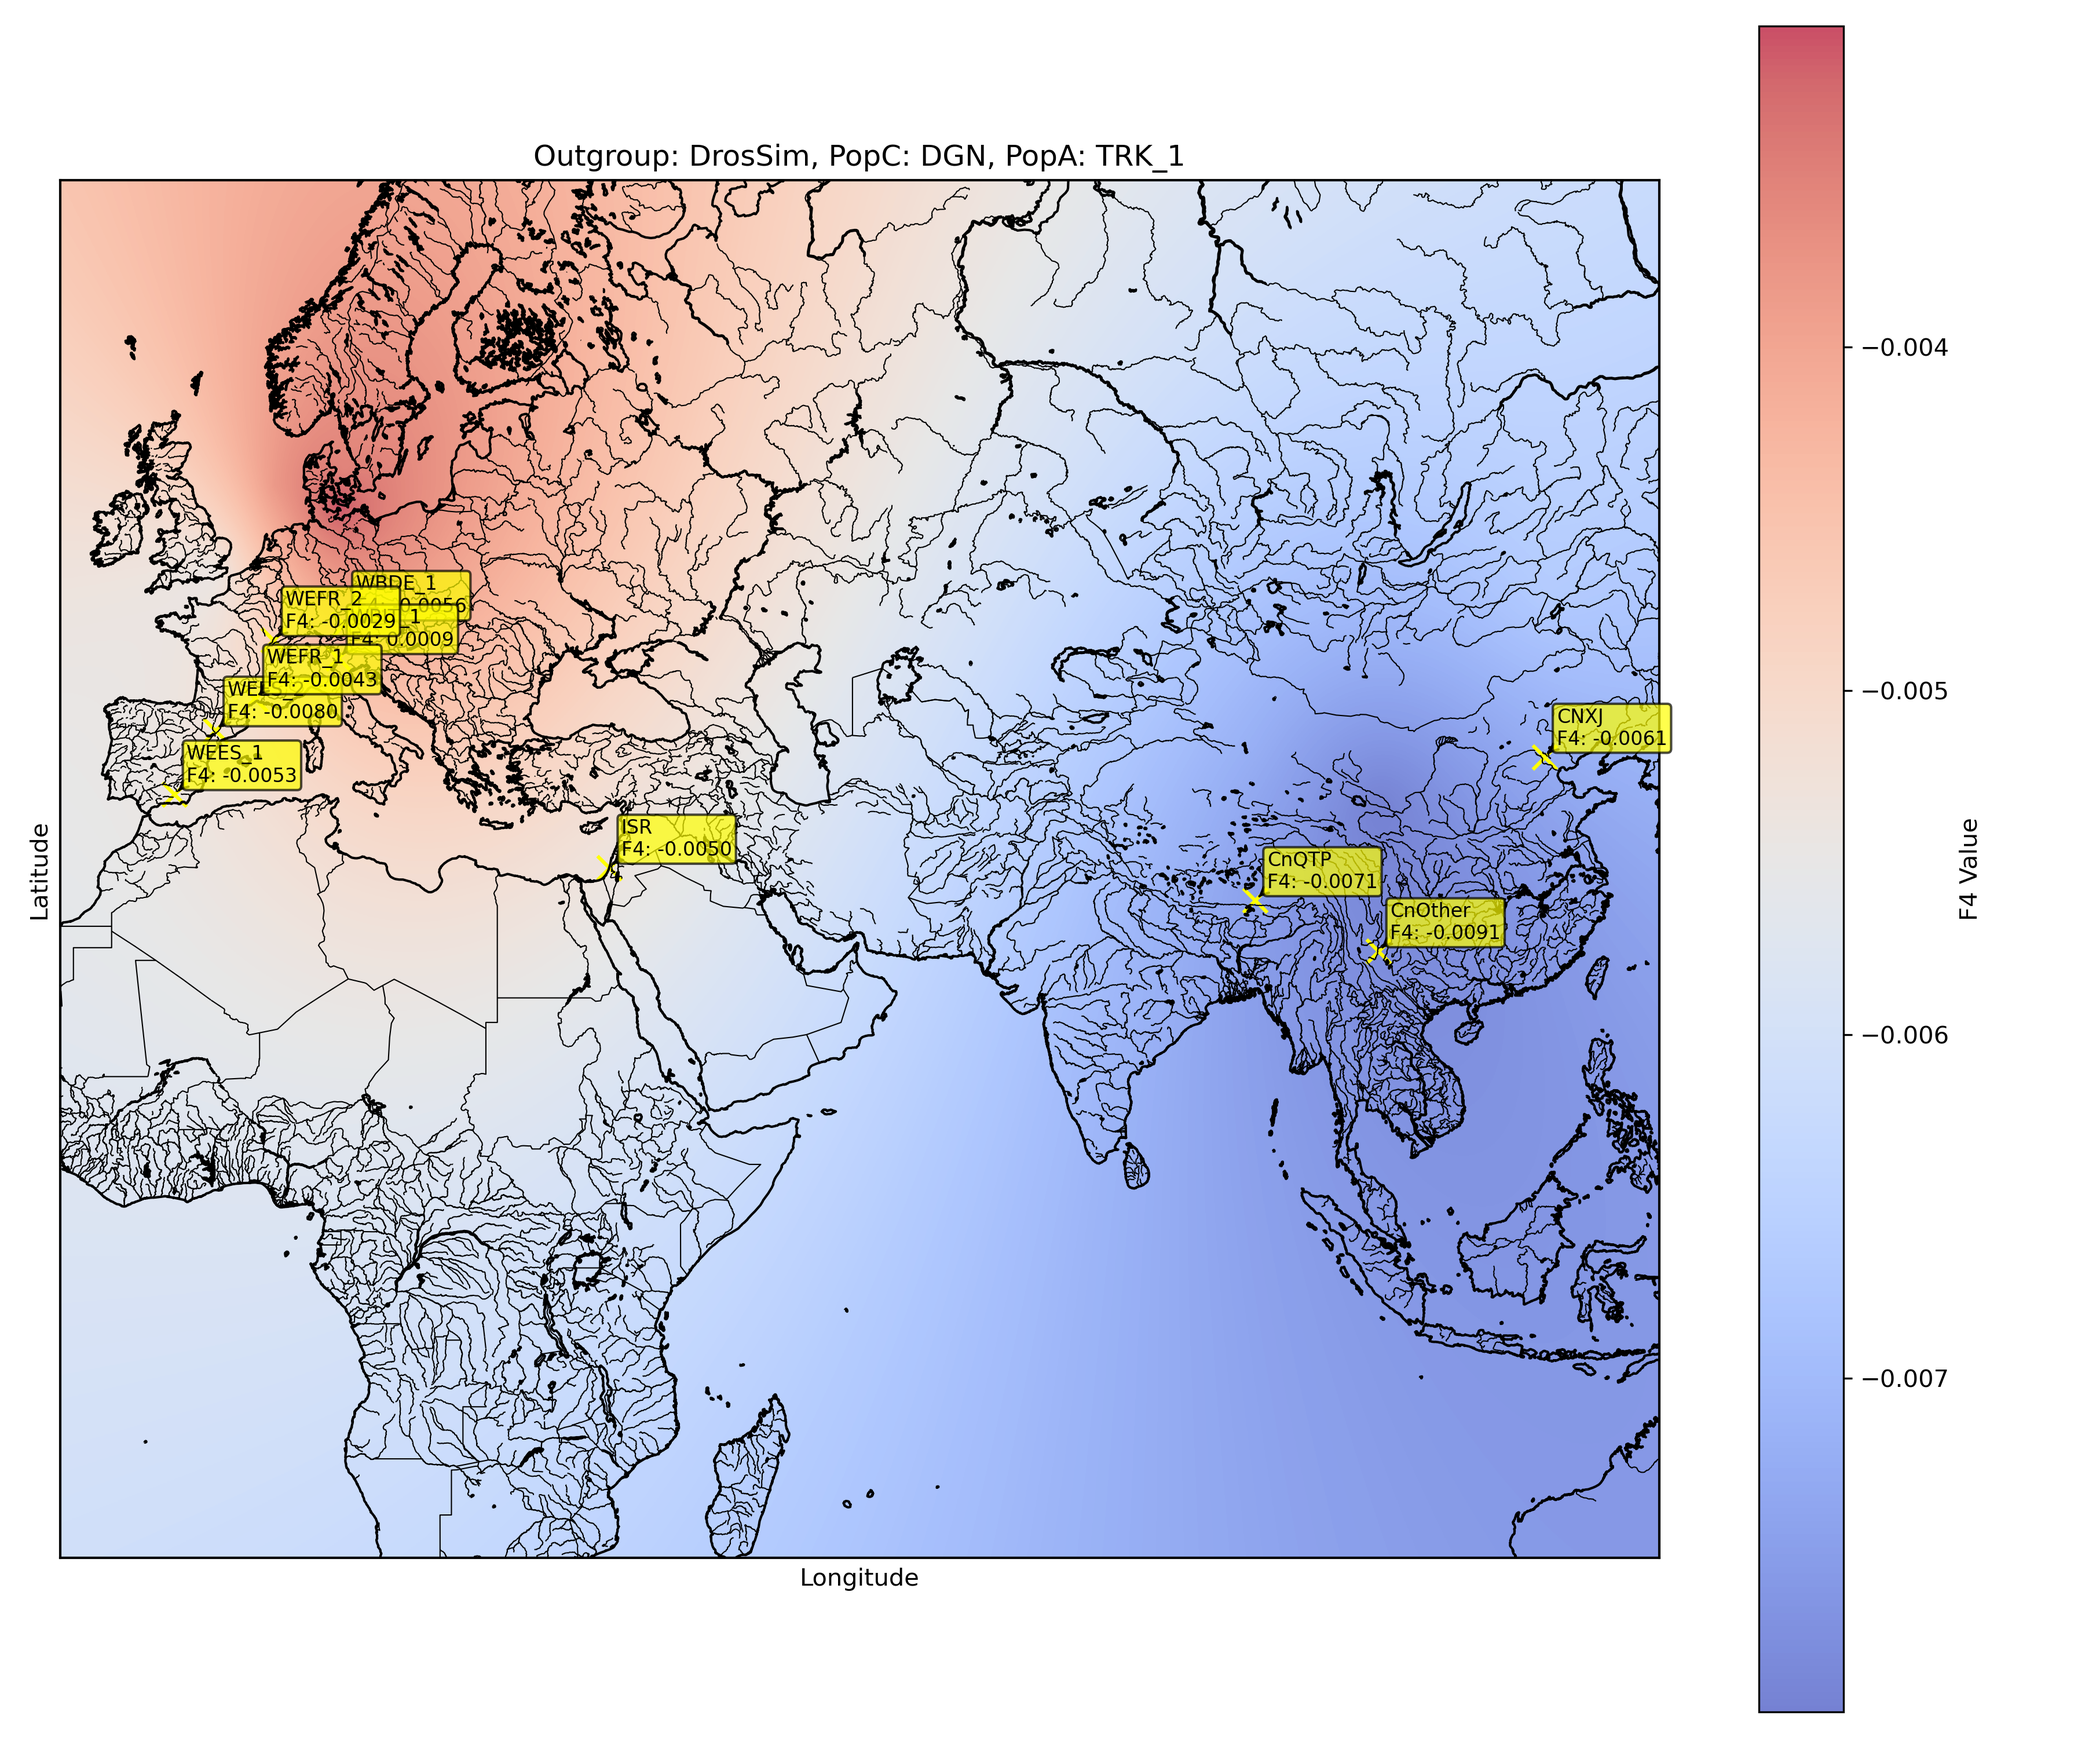
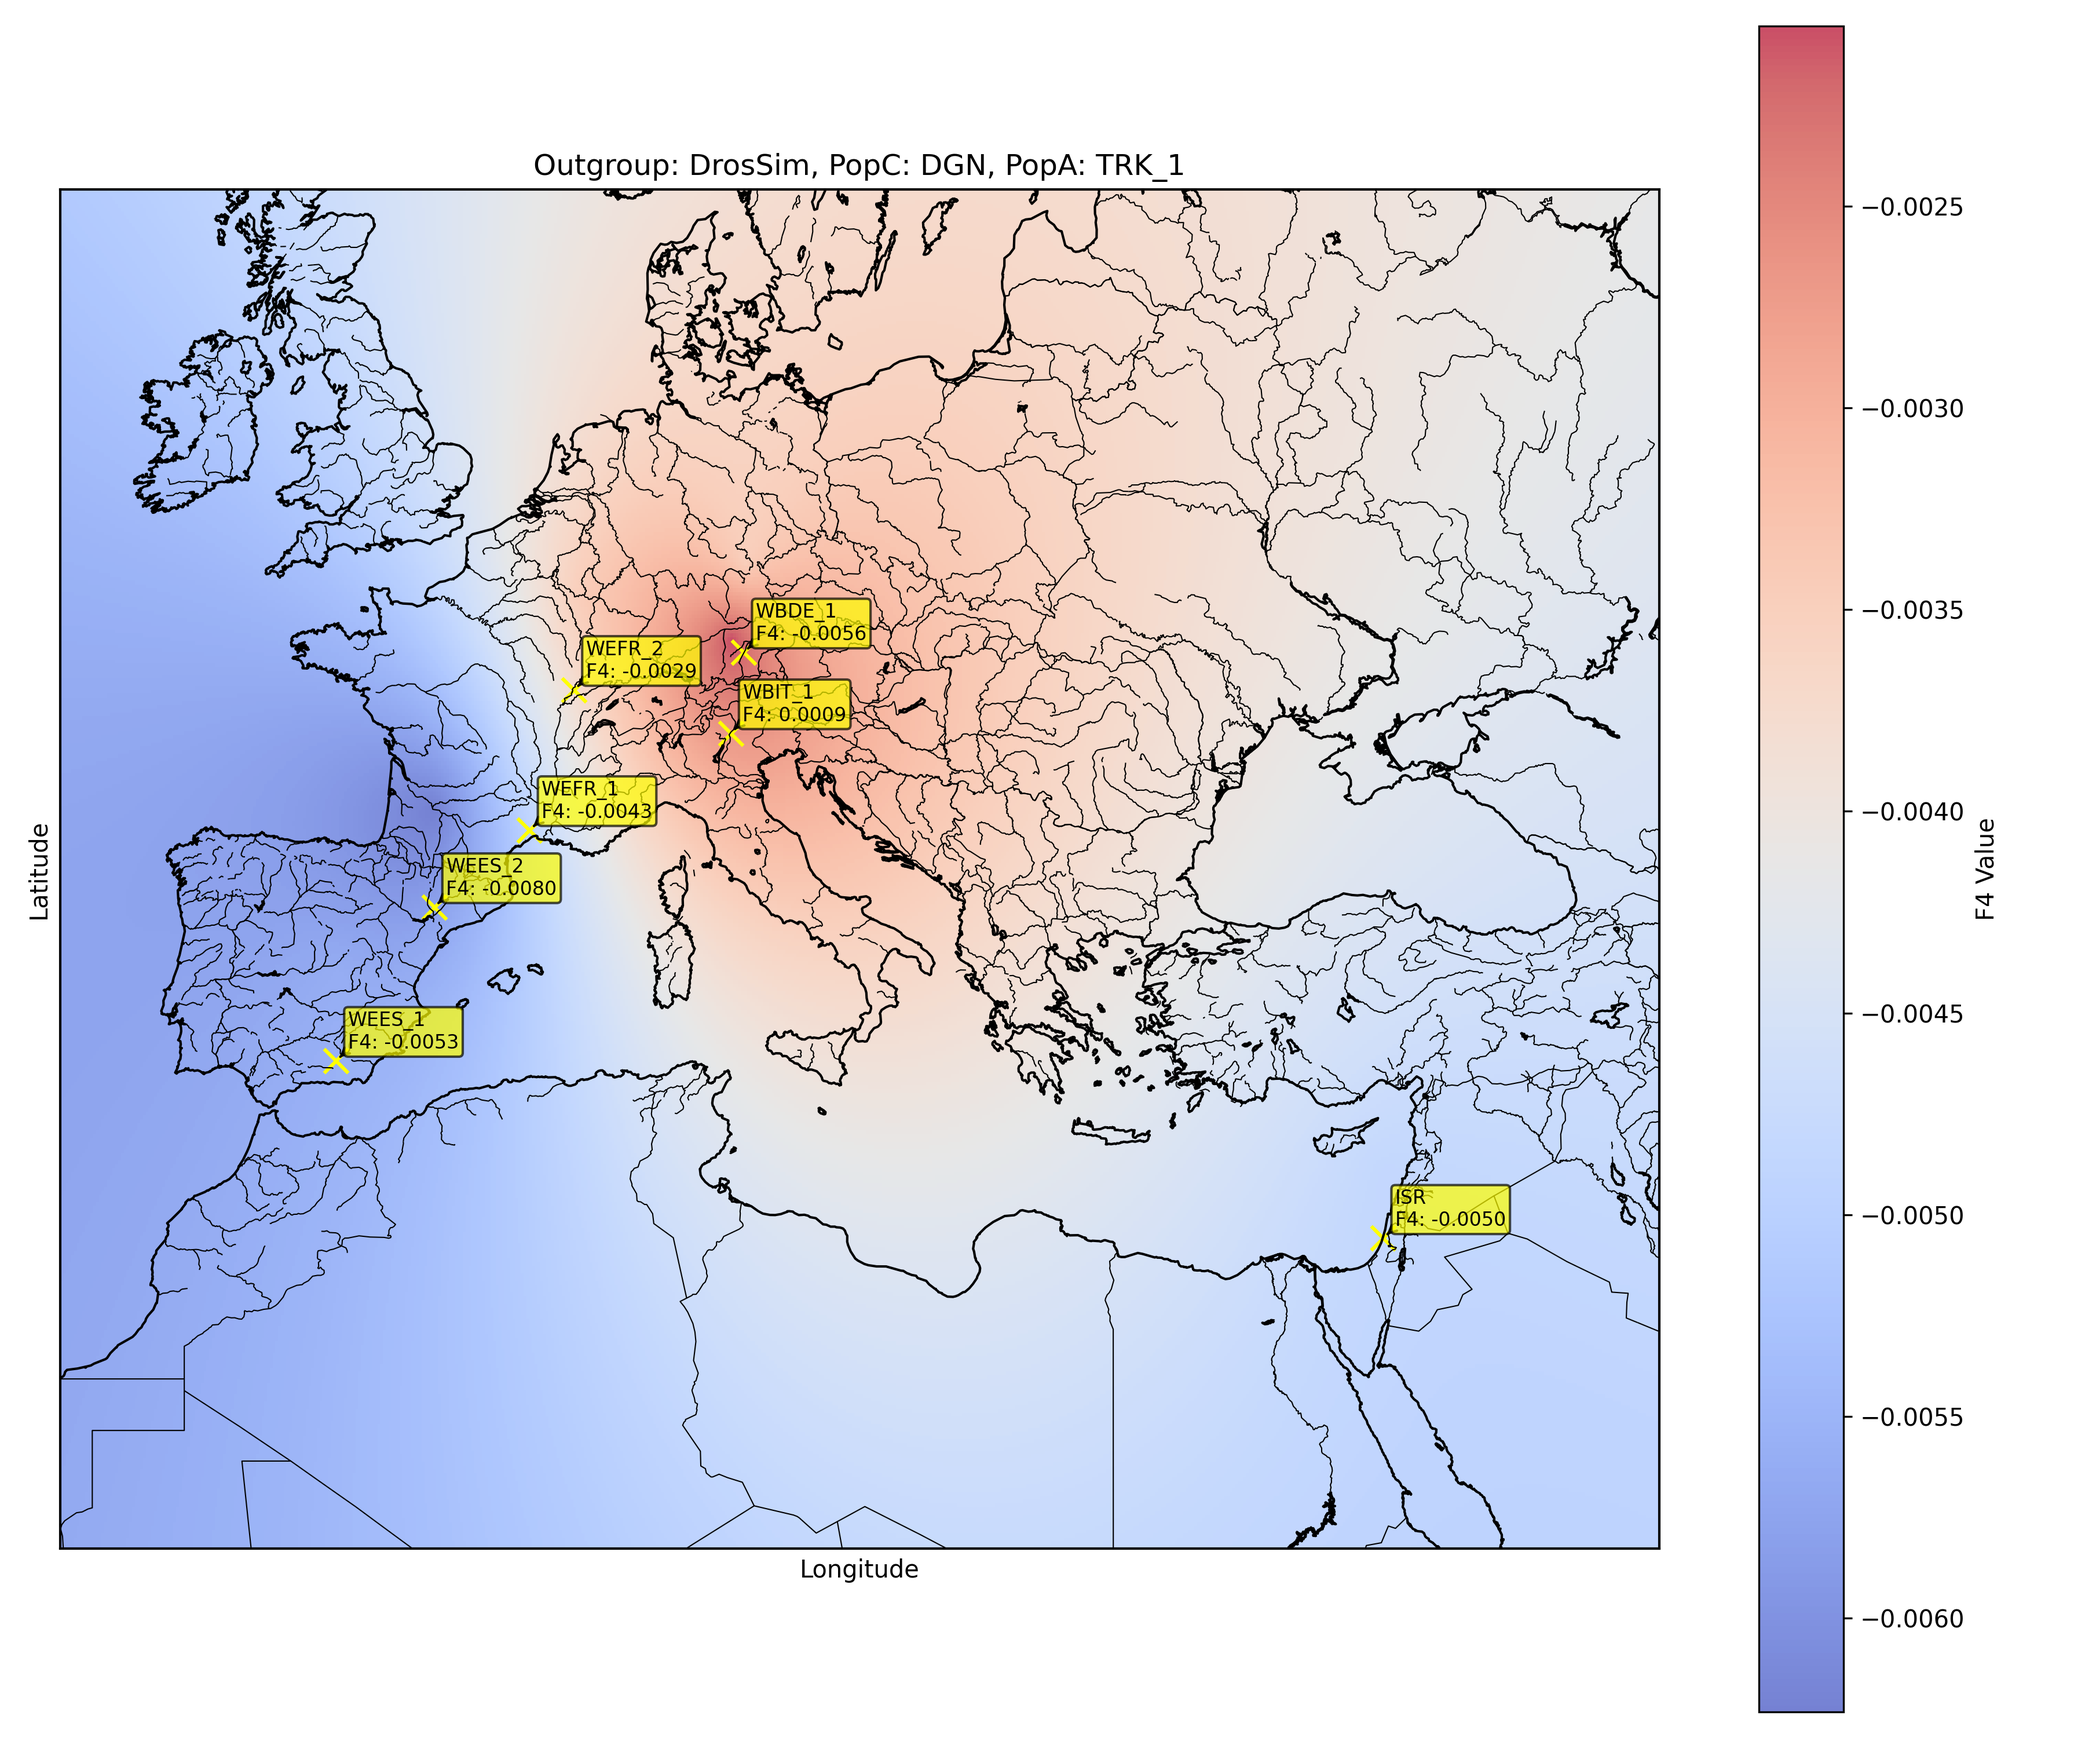
reformat kriging

diff --git a/scripts/python/KrigingWithMap.py b/scripts/python/KrigingWithMap.py
@@ -7,32 +7,40 @@ from mpl_toolkits.basemap import Basemap  # For basemap functionality
 
 p1 = "DrosSim"
 p2 = "DGN"
-p3 = "WBDE_1"
+p3 = "TRK_1"
 
 # Read your data
 df = pd.read_csv("/gatk_modified/userdata/abertelli/drosophila-evolution/data/all_f4stats_wsim.tsv", sep="\t")
-df_subs = df[(df["PopO"] == p2) & (df["PopX"] == p1) & (df["PopA"] == p3)] 
 df_pools = pd.read_csv("/gatk_modified/userdata/abertelli/drosophila-evolution/results/pools.csv")
+pops = df_pools["NAME"].to_list() 
+conts = df_pools["CONTINENT"].to_list() 
+pops2cont = {pops[i]: conts[i] for i in range(len(pops))}
+df_subs = df[(df["PopO"] == p2) & (df["PopX"] == p1) & (df["PopA"] == p3) & (df["PopC"].map(pops2cont) == "EU")]
 
 # Calculate coordinates and prepare the data
 longs = df_pools['LONG'] 
-lats = df_pools['LAT'] 
-pops = df_pools["NAME"].to_list() 
+lats = df_pools['LAT']  
 pops2dist = {pops[i]: [longs[i],lats[i]] for i in range(len(pops))}
 focals = df_subs["PopC"].to_list() 
 f3s = df_subs["Estimate"].to_list() 
 focal2zscoref3 = {focals[i]: [f3s[i]] for i in range(len(focals))}
 
-# Define plot boundaries
-MINY = min(lats) - 10
-MAXY = max(lats) + 10
-MINX = min(longs) - 10
-MAXX = max(longs) + 10
+
+latsused = [] 
+longsused = [] 
 
 # Prepare data for Kriging
 for k in focal2zscoref3:
     focal2zscoref3[k].insert(0, pops2dist[k][0])
     focal2zscoref3[k].insert(1, pops2dist[k][1])
+    longsused.append(pops2dist[k][0])
+    latsused.append(pops2dist[k][1])
+
+# Define plot boundaries
+MINY = min(latsused) - 10
+MAXY = max(latsused) + 10
+MINX = min(longsused) - 10
+MAXX = max(longsused) + 10
 
 data = np.array([focal2zscoref3[k] for k in focal2zscoref3])
 print(data)
